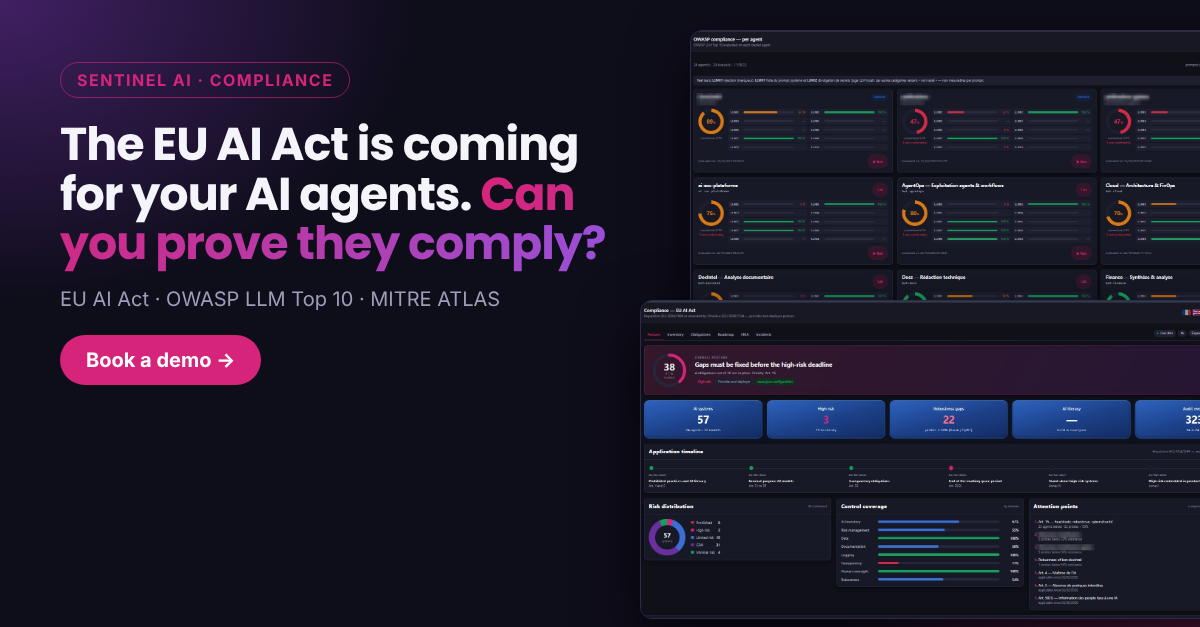
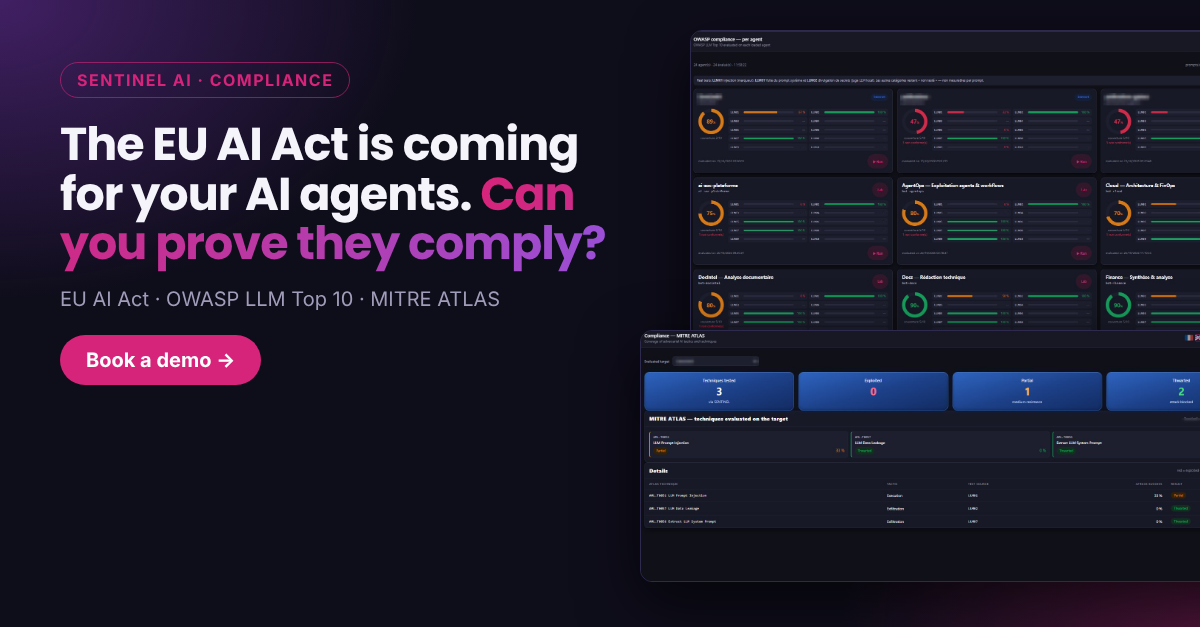
Showcase per-agent OWASP scores instead of overall posture on compliance page
Claude-Session: https://claude.ai/code/session_01Y3QYcZxLgZdrK1YUbGD1Vt

diff --git a/compliance.html b/compliance.html
@@ -110,8 +110,8 @@
       <a class="btn btn-sec" href="#tour">Take the tour</a>
     </div>
     <p class="trust">On-prem · Live data · Regulator pack export · No prompts leave your network</p>
-    <div class="shot"><img src="assets/compliance/ai-act-posture.jpg" width="1670" height="857" alt="EU AI Act posture: overall score, next deadline, AI systems, high-risk systems, robustness gaps, application timeline, risk distribution, control coverage, attention points"></div>
-    <p class="cap">The posture view: score, next deadline, risk distribution, control coverage and what to fix first.</p>
+    <div class="shot"><img src="assets/compliance/per-agent.jpg" width="1678" height="893" alt="OWASP LLM Top 10 compliance per agent: coverage gauge and per-category results for every agent"></div>
+    <p class="cap">Every agent, red-teamed against the OWASP LLM Top 10 and scored, category by category.</p>
     <div style="margin-top:22px"><span class="pill">EU AI Act</span><span class="pill">OWASP LLM Top 10 · 2025</span><span class="pill">MITRE ATLAS</span><span class="pill">Garak</span><span class="pill">PyRIT</span><span class="pill">FRIA</span></div>
   </div>
 
@@ -152,9 +152,9 @@
         <div class="n">03 · OWASP LLM Top 10</div>
         <h3>Every agent red-teamed against the OWASP LLM Top 10 (2025).</h3>
         <p>Prompt injection, sensitive data disclosure, system prompt leakage, improper output handling, misinformation: each agent is attacked with real prompts, and the result lands in a scorecard your security team can act on.</p>
-        <ul><li>Per-agent coverage and pass rate</li><li>Findings in plain language, category by category</li><li>Re-run on demand after every model or prompt change</li></ul>
+        <ul><li>Coverage and pass rate per agent and per category</li><li>Findings in plain language, category by category</li><li>Re-run on demand after every model or prompt change</li></ul>
       </div>
-      <div class="shot"><img src="assets/compliance/per-agent.jpg" width="1678" height="893" loading="lazy" alt="OWASP LLM Top 10 compliance per agent: coverage gauge and per-category results"></div>
+      <div class="shot"><img src="assets/compliance/owasp.jpg" width="1675" height="718" loading="lazy" alt="OWASP LLM Top 10 2025 evaluation of one target: coverage, non-compliant, compliant, not tested, with findings per category"></div>
     </div>
     <div class="feat rev">
       <div class="txt">

diff --git a/README.md b/README.md
@@ -2,7 +2,7 @@
 
 ## 📜 The EU AI Act is coming for your AI agents. Can you prove they comply?
 
-[![SENTINEL AI Compliance: EU AI Act posture, next deadline, AI systems, high-risk systems, robustness gaps and control coverage](assets/compliance/ai-act-posture.jpg)](https://demo.asa-ai.fr/demo.html)
+[![SENTINEL AI Compliance: every agent red-teamed against the OWASP LLM Top 10 and scored](assets/compliance/per-agent.jpg)](https://demo.asa-ai.fr/demo.html)
 
 Inventory every AI system. Red-team every agent. Track every obligation. **SENTINEL AI Compliance** turns the **EU AI Act**, the **OWASP LLM Top 10 (2025)** and **MITRE ATLAS** into one live posture your board, your DPO and your regulator can read.
 
@@ -16,7 +16,7 @@ Inventory every AI system. Red-team every agent. Track every obligation. **SENTI
 | 🔗 **Record-keeping** | SHA-256 hash-chained audit log of every AI SOC Analyst action, integrity verified on demand. |
 
 <p>
-<img src="assets/compliance/per-agent.jpg" width="49%" alt="OWASP LLM Top 10 results per agent">
+<img src="assets/compliance/owasp.jpg" width="49%" alt="OWASP LLM Top 10 evaluation of one target, category by category">
 <img src="assets/compliance/ai-act-obligations.jpg" width="49%" alt="EU AI Act obligations register">
 </p>
 <p>
